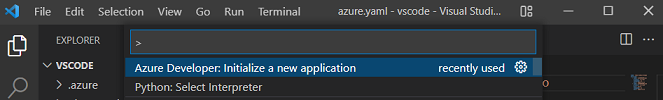
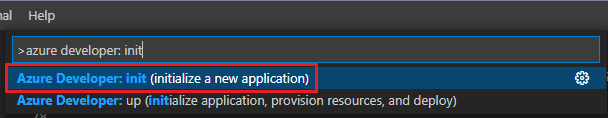
run/debug article edits

diff --git a/articles/azure-dev-cli/how-to-use-vscode-extension-to-debug-locally.md b/articles/azure-dev-cli/how-to-use-vscode-extension-to-debug-locally.md
@@ -1,47 +1,46 @@
 ---
-title: How to use Visual Studio Code extension to run and debug locally
+title: Debug Azure apps using the Azure Developer CLI Visual Studio Code extension
 description: How to use the VS Code extension for Azure Developer CLI to run and debug locally.
 author: puicchan
 ms.author: puichan
-ms.date: 04/12/2021
+ms.date: 06/13/2021
 ms.topic: conceptual
 ms.custom: devx-track-azdevcli
 ms.prod: azure
 ---
-# How to use Visual Studio Code extension to run and debug locally
+# Debug Azure apps using the Azure Developer CLI Visual Studio Code extension
 
-This article walks through how to use Visual Studio Code and Visual Studio Code extension for Azure Developer CLI to run and debug applications.
+In this article, you learn how to use the [Visual Studio Code](https://code.visualstudio.com/docs) extension for Azure Developer CLI (azd) to run and debug applications on your local machine.
 
-## Background
+## Prerequisites
 
-[Visual Studio Code](https://code.visualstudio.com/docs) is a lightweight, cross-platform source code editor that comes with support for many languages. To make it easy for you to debug code right from the editor, Azure Developer CLI enabled templates include configurations (`tasks.json` and `launch.json`) for building and debugging the application.
+This article assumes you've installed the azd  and created an app from an azd template. If you are new to azd, begin with [Get started](get-started.md) and then return to this article.
 
-## Install Azure Developer CLI VS Code extension 
+## Install the Visual Studio Code extension for Azure Developer CLI
 
-The first step is to download and install the extension.
+1. Download [Visual Studio Code extension for Azure Developer CLI](https://azuresdkreleasepreview.blob.core.windows.net/azd/vscode/latest/azure-dev-latest.vsix).
 
-1. Install azd from NPM
+1. Open Visual Studio Code
 
-    ```bash
-    npm install -g https://azuresdkreleasepreview.blob.core.windows.net/azd/standalone/latest/azure-az-dev-cli-latest.tgz
-    ```
-    
-2. In VS Code
-    1. Download the extension from https://azuresdkreleasepreview.blob.core.windows.net/azd/vscode/latest/azure-dev-latest.vsix 
-    1. Open "Extensions" (Ctrl+Shift+X)
-    1. Select the `...` menu at top of Extensions sidebar
-    1. Select "Install from VSIX"
-    1. Select location of the downloaded file
+1. From the Visual Studio Code **View** menu, select **Extensions**.
 
-## Initialize a new application 
+1. At the top right of the **EXTENSIONS** pane, select **...**.
 
-Use the VS Code extension to set up your local environment.
+1. Select **Install from VSIX**.
 
-1. Create an empty directory and open this folder in VS Code
-2. Open Command Palette (Ctrl+Shift+P)
-3. Type and pick **Azure Developer: Initialize a new application**
-!["Initialize"](media/how-to-use-vscode-extension-to-debug-locally/cmd-init.png)
-4. Select one of templates, for example, "Azure-Samples/todo-nodejs-mongo" 
+1. Select the location of the downloaded extension file. After completion of the installation, Visual Studio displays a message indicating the extension has been installed.
+
+## Initialize a new application
+
+1. Create and open a new folder in Visual Studio Code.
+
+1. From the Visual Studio Code menu, select **Command Palette...**.
+
+1. Type and pick `Azure Developer: init`.
+
+    !["Visual Studio Code extension option to initialize a new application"](media/how-to-use-vscode-extension-to-debug-locally/cmd-init.png)
+
+1. Select one of templates.
     - Provide environment name, location and select the Azure subscription when prompted
 
 The following files are included in the .vscode folder:

diff --git a/articles/azure-dev-cli/includes/azd-baremetal.md b/articles/azure-dev-cli/includes/azd-baremetal.md
@@ -50,7 +50,8 @@ You will create infrastructure and deploy code to Azure. If you don't have an Az
 
 The fastest way for you to get this application up and running on Azure is to use the `azd up` command. This single command will initialize the project, create and configure all necessary Azure resources - including access policies and roles for your account and service-to-service communication with Managed Identities.
 
-1. In **File Explorer** or a terminal, create a new empty folder, and change into it. 
+1. In **File Explorer** or a terminal, create a new empty folder, and change into it.
+
 1. Run the following command:
 
 ::: zone pivot="programming-language-nodejs"
@@ -77,14 +78,13 @@ azd up --template todo-csharp-cosmos-sql
 
 ::: zone-end
 
-
-You'll be prompted for the following information:
+The command prompts for the following information:
 
 - `Environment Name`: Prefix for all your Azure resources, make sure it's globally unique and under 15 characters.
 - `Azure Location`: The Azure location where your resources will be deployed.
 - `Azure Subscription`: The Azure Subscription where your resources will be deployed.
 
-You will see a progress indicator as it provisions and deploys your application.
+A progress indicator displays the current status azd provisions and deploys your application.
 
 > [!NOTE] 
-> * This may take a while to complete as it performs three steps: `azd init` (initialize the project), `azd provision` (creates Azure services) and `azd deploy` (deploys code). 
+> * The operation could take several minutes to complete as it performs three steps: initializes the project (`azd init`), creates the Azure services (`azd provision`), and deploys the code (`azd deploy`). 
